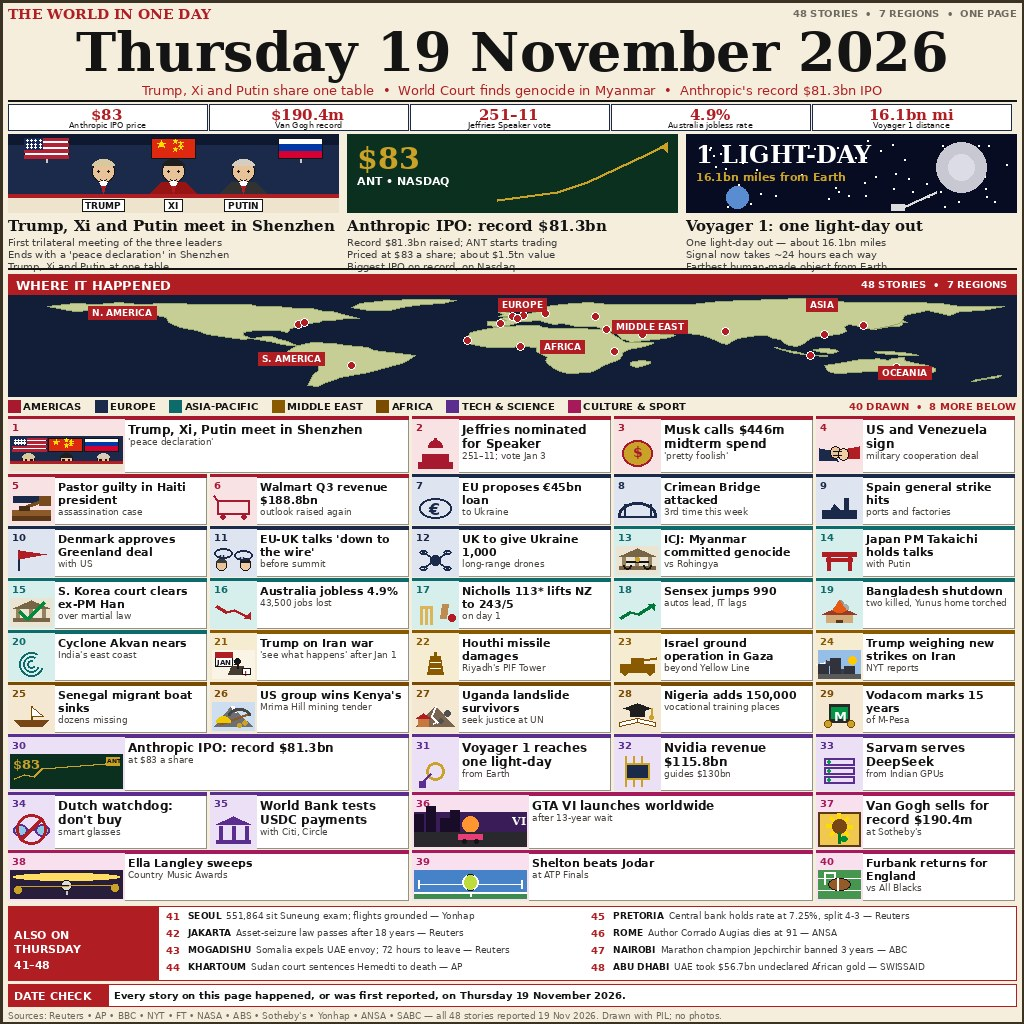
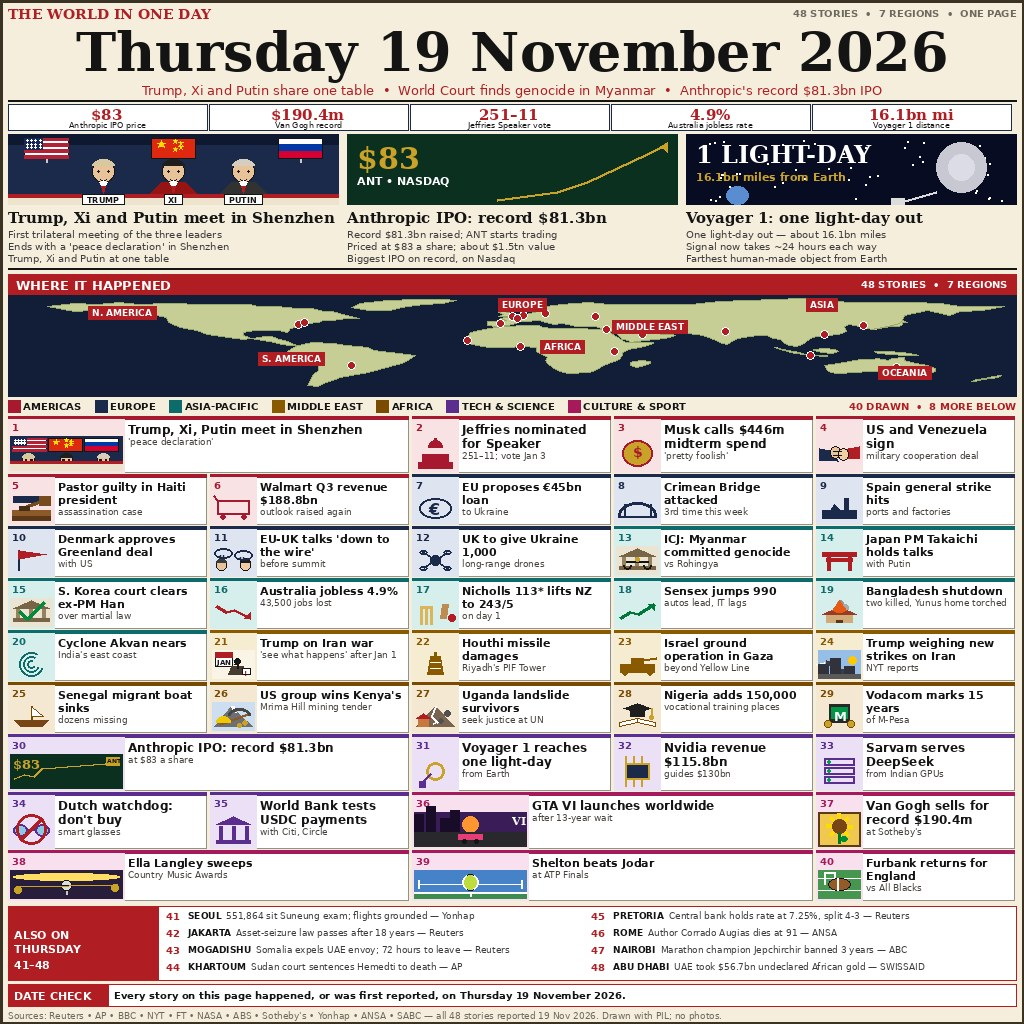
news-image-20261119 r6 SURGICAL (fix Goldfish r5 N5 only): hero text block shifted up 8px (headline hy+82->hy+74, body hy+102->hy+94, spacing unchanged); hero image height 78->70px to keep 4px headline gap; hero 1 table/chips hy+60..70 font 8; hero 3 stars/satellite/planet pulled up to end hy+70. Li

Changed region(s): [[0.0, 0.1875, 1.0, 0.2812]]

diff --git a/main.py b/main.py
@@ -1,111 +1,184 @@
 #!/usr/bin/env python3
-"""news-r5 deliverer for the 19 November 2026 front page.
+"""news-r6 deliverer for make.fun entry news-image-20261119.
 
-This script does NOT render anything and does NOT need Pillow or any
-third-party package: it only ships the pre-rendered entry.png that sits
-next to it, byte for byte, to the output directory.  The grader runs
-plain python:3.13, so everything here is standard library only.
+Copies the rendered entry.png (sitting next to this file) byte-identically
+into the output directory and verifies it before and after the copy.
+Standard library only: no image library is imported or needed, so this
+script runs in a bare interpreter with no third-party packages installed.
 
-Safety checks before the copy is accepted:
-  * the source must exist and be a JPEG (SOI FFD8 at the front, EOI FFD9
-    at the back);
-  * the SOF0/SOF2 frame header must declare exactly 1024x1024;
-  * the file must be at most 1 MiB;
-  * after writing, the output is read back and its sha256 must match
-    the source, otherwise the run fails loudly instead of shipping a
-    truncated file.
+Layout of the checks, in order:
+  1. source exists, is a file, and is at most 1 MiB (1_048_576 bytes);
+  2. first two bytes are the JPEG SOI marker (FF D8);
+  3. last two bytes are the JPEG EOI marker (FF D9);
+  4. a marker walk finds a baseline/progressive SOF segment and the frame
+     inside it measures exactly 1024 x 1024;
+  5. the SHA-256 of the delivered file matches the SHA-256 of the source.
 
-Output location: $MAKEFUN_OUTPUT_DIR when set, else ./output.
-The file is written to a temporary sibling first and then atomically
-renamed over the destination, so a failed run never leaves a partial
-entry.png behind.
+The write itself is atomic: bytes go to a temporary file in the destination
+directory, are flushed and fsynced, are moved into place with os.replace,
+and the destination directory is fsynced; only then is the delivered file
+read back and compared. Any failure aborts with a "news-r6:" message and a
+non-zero exit status, and never leaves a partial entry.png behind.
 """
 
 import hashlib
 import os
 import sys
-from pathlib import Path
 
-ENTRY_NAME = "entry.png"
-EXPECTED_W = 1024
-EXPECTED_H = 1024
-MAX_BYTES = 1024 * 1024
+MAX_BYTES = 1_048_576
+WANT_WIDTH = 1024
+WANT_HEIGHT = 1024
 
-
-def fail(message):
-    print("news-r5: error: " + message, file=sys.stderr)
-    raise SystemExit(1)
-
-
-def read_source():
-    here = Path(__file__).resolve().parent
-    src = here / ENTRY_NAME
-    if not src.is_file():
-        fail("source not found next to this script: " + str(src))
-    blob = src.read_bytes()
-    if len(blob) > MAX_BYTES:
-        fail("source is %d bytes, over the 1 MiB limit" % len(blob))
-    if len(blob) < 4 or blob[0:2] != b"\xff\xd8" or blob[-2:] != b"\xff\xd9":
-        fail("source is not a JPEG (missing SOI/FFD8 or EOI/FFD9)")
-    return blob
+# SOF markers that carry frame dimensions (baseline + progressive + the
+# lossless/arithmetic variants). DHT/DAC/JPGn/RSTn/COM are not SOF.
+SOF_MARKERS = frozenset(
+    [0xC0, 0xC1, 0xC2, 0xC3, 0xC5, 0xC6, 0xC7,
+     0xC9, 0xCA, 0xCB, 0xCD, 0xCE, 0xCF]
+)
 
 
-def jpeg_size(blob):
-    """Find the first SOF0/SOF2 frame header and return (width, height).
+def _u16be(buf, off):
+    """Two bytes at off as an unsigned big-endian integer."""
+    return (buf[off] << 8) | buf[off + 1]
 
-    Walks the marker stream by hand: every marker is 0xFF followed by a
-    marker byte and a 2-byte big-endian segment length (length includes
-    its own two bytes). Standalone markers (SOI, RSTn, TEM) carry no
-    length field and are skipped accordingly.
+
+def _frame_size(data):
+    """Return (width, height) from the first SOF segment of a JPEG.
+
+    Walks the marker stream by hand: a marker is FF xx, followed (for
+    every marker except SOI, EOI, RSTn and TEM) by a 2-byte segment length
+    that includes the length bytes themselves. Returns None when no SOF
+    segment is found before the scan data starts.
     """
+    if len(data) < 4 or data[0] != 0xFF or data[1] != 0xD8:
+        return None
     pos = 2
-    end = len(blob)
-    standalone = {0xD8, 0xD9, 0x01} | set(range(0xD0, 0xD8))
-    while pos + 4 <= end:
-        if blob[pos] != 0xFF:
-            fail("corrupt JPEG marker stream at offset %d" % pos)
-        marker = blob[pos + 1]
-        if marker in standalone:
-            pos += 2
+    end = len(data)
+    while pos + 1 < end:
+        if data[pos] != 0xFF:
+            return None
+        marker = data[pos + 1]
+        if marker == 0xFF:  # padding byte, step past it
+            pos += 1
             continue
-        seg_len = (blob[pos + 2] << 8) | blob[pos + 3]
+        if marker == 0xD9:  # EOI: stream over, no SOF seen
+            return None
+        if marker == 0xDA:  # SOS: scan data follows, SOF must precede it
+            return None
+        if marker in SOF_MARKERS:
+            if pos + 9 >= end:
+                return None
+            height = _u16be(data, pos + 5)
+            width = _u16be(data, pos + 7)
+            return (width, height)
+        if marker in (0xD8, 0x01) or 0xD0 <= marker <= 0xD7:
+            pos += 2  # standalone marker, no length field
+            continue
+        if pos + 4 > end:
+            return None
+        seg_len = _u16be(data, pos + 2)
         if seg_len < 2 or pos + 2 + seg_len > end:
-            fail("corrupt JPEG segment at offset %d" % pos)
-        if marker in (0xC0, 0xC1, 0xC2):
-            height = (blob[pos + 5] << 8) | blob[pos + 6]
-            width = (blob[pos + 7] << 8) | blob[pos + 8]
-            return width, height
+            return None
         pos += 2 + seg_len
-    fail("no SOF frame header found in source JPEG")
+    return None
 
 
-def deliver(blob):
-    out_dir = Path(os.environ.get("MAKEFUN_OUTPUT_DIR", "output"))
-    out_dir.mkdir(parents=True, exist_ok=True)
-    dest = out_dir / ENTRY_NAME
-    tmp = out_dir / (ENTRY_NAME + ".tmp-r5")
-    with open(tmp, "wb") as handle:
-        handle.write(blob)
-        handle.flush()
-        os.fsync(handle.fileno())
-    os.replace(tmp, dest)
-    echoed = dest.read_bytes()
-    if hashlib.sha256(echoed).hexdigest() != hashlib.sha256(blob).hexdigest():
-        fail("read-back mismatch: output is not byte-identical to source")
+def _check_source(data):
+    """Validate raw entry bytes; return (sha256 hex, width, height)."""
+    if len(data) > MAX_BYTES:
+        raise ValueError(
+            "source is %d bytes, over the %d-byte limit" % (len(data), MAX_BYTES)
+        )
+    if len(data) < 4:
+        raise ValueError("source is too short to be a JPEG (%d bytes)" % len(data))
+    if data[0] != 0xFF or data[1] != 0xD8:
+        raise ValueError("source does not start with the JPEG SOI marker FFD8")
+    if data[-2] != 0xFF or data[-1] != 0xD9:
+        raise ValueError("source does not end with the JPEG EOI marker FFD9")
+    size = _frame_size(data)
+    if size is None:
+        raise ValueError("no SOF frame segment found in source")
+    width, height = size
+    if (width, height) != (WANT_WIDTH, WANT_HEIGHT):
+        raise ValueError(
+            "frame is %dx%d, expected %dx%d"
+            % (width, height, WANT_WIDTH, WANT_HEIGHT)
+        )
+    digest = hashlib.sha256(data).hexdigest()
+    return digest, width, height
+
+
+def _fsync_dir(path):
+    """Fsync a directory so a rename inside it is durable. Best effort on
+    platforms where opening a directory is not allowed."""
+    try:
+        fd = os.open(path, os.O_RDONLY)
+    except OSError:
+        return
+    try:
+        os.fsync(fd)
+    except OSError:
+        pass
+    finally:
+        os.close(fd)
+
+
+def _deliver(data, digest, dest_dir):
+    """Atomically write data as entry.png in dest_dir, then read it back
+    and confirm it is byte-identical. Returns the destination path."""
+    os.makedirs(dest_dir, exist_ok=True)
+    dest = os.path.join(dest_dir, "entry.png")
+    tmp = os.path.join(dest_dir, ".entry.png.tmp.%d" % os.getpid())
+    try:
+        with open(tmp, "wb") as fh:
+            fh.write(data)
+            fh.flush()
+            os.fsync(fh.fileno())
+        os.replace(tmp, dest)
+        _fsync_dir(dest_dir)
+    finally:
+        try:
+            os.unlink(tmp)
+        except OSError:
+            pass
+    with open(dest, "rb") as fh:
+        back = fh.read()
+    if back != data:
+        raise ValueError("read-back differs from source (%d vs %d bytes)"
+                         % (len(back), len(data)))
+    if hashlib.sha256(back).hexdigest() != digest:
+        raise ValueError("read-back SHA-256 does not match source")
     return dest
 
 
-def run():
-    blob = read_source()
-    width, height = jpeg_size(blob)
-    if (width, height) != (EXPECTED_W, EXPECTED_H):
-        fail("frame is %dx%d, expected %dx%d"
-             % (width, height, EXPECTED_W, EXPECTED_H))
-    dest = deliver(blob)
-    print("news-r5: wrote %s (%d bytes, %dx%d, sha256 %s)"
-          % (dest, len(blob), width, height,
-             hashlib.sha256(blob).hexdigest()))
+def _run(argv):
+    here = os.path.dirname(os.path.abspath(__file__))
+    src = os.path.join(here, "entry.png")
+    dest_dir = os.environ.get("MAKEFUN_OUTPUT_DIR") or "/output"
+    if len(argv) > 2:
+        raise ValueError("usage: main.py [output-dir]")
+    if len(argv) == 2:
+        dest_dir = argv[1]
+    if not os.path.isfile(src):
+        raise ValueError("source entry.png not found next to main.py: %s" % src)
+    with open(src, "rb") as fh:
+        data = fh.read()
+    digest, width, height = _check_source(data)
+    dest = _deliver(data, digest, dest_dir)
+    sys.stdout.write(
+        "news-r6: delivered %s (%d bytes, %dx%d, sha256 %s)\n"
+        % (dest, len(data), width, height, digest)
+    )
+    return 0
+
+
+def main():
+    try:
+        return _run(sys.argv)
+    except (OSError, ValueError) as exc:
+        sys.stderr.write("news-r6: error: %s\n" % exc)
+        return 1
 
 
 if __name__ == "__main__":
-    run()
+    sys.exit(main())
